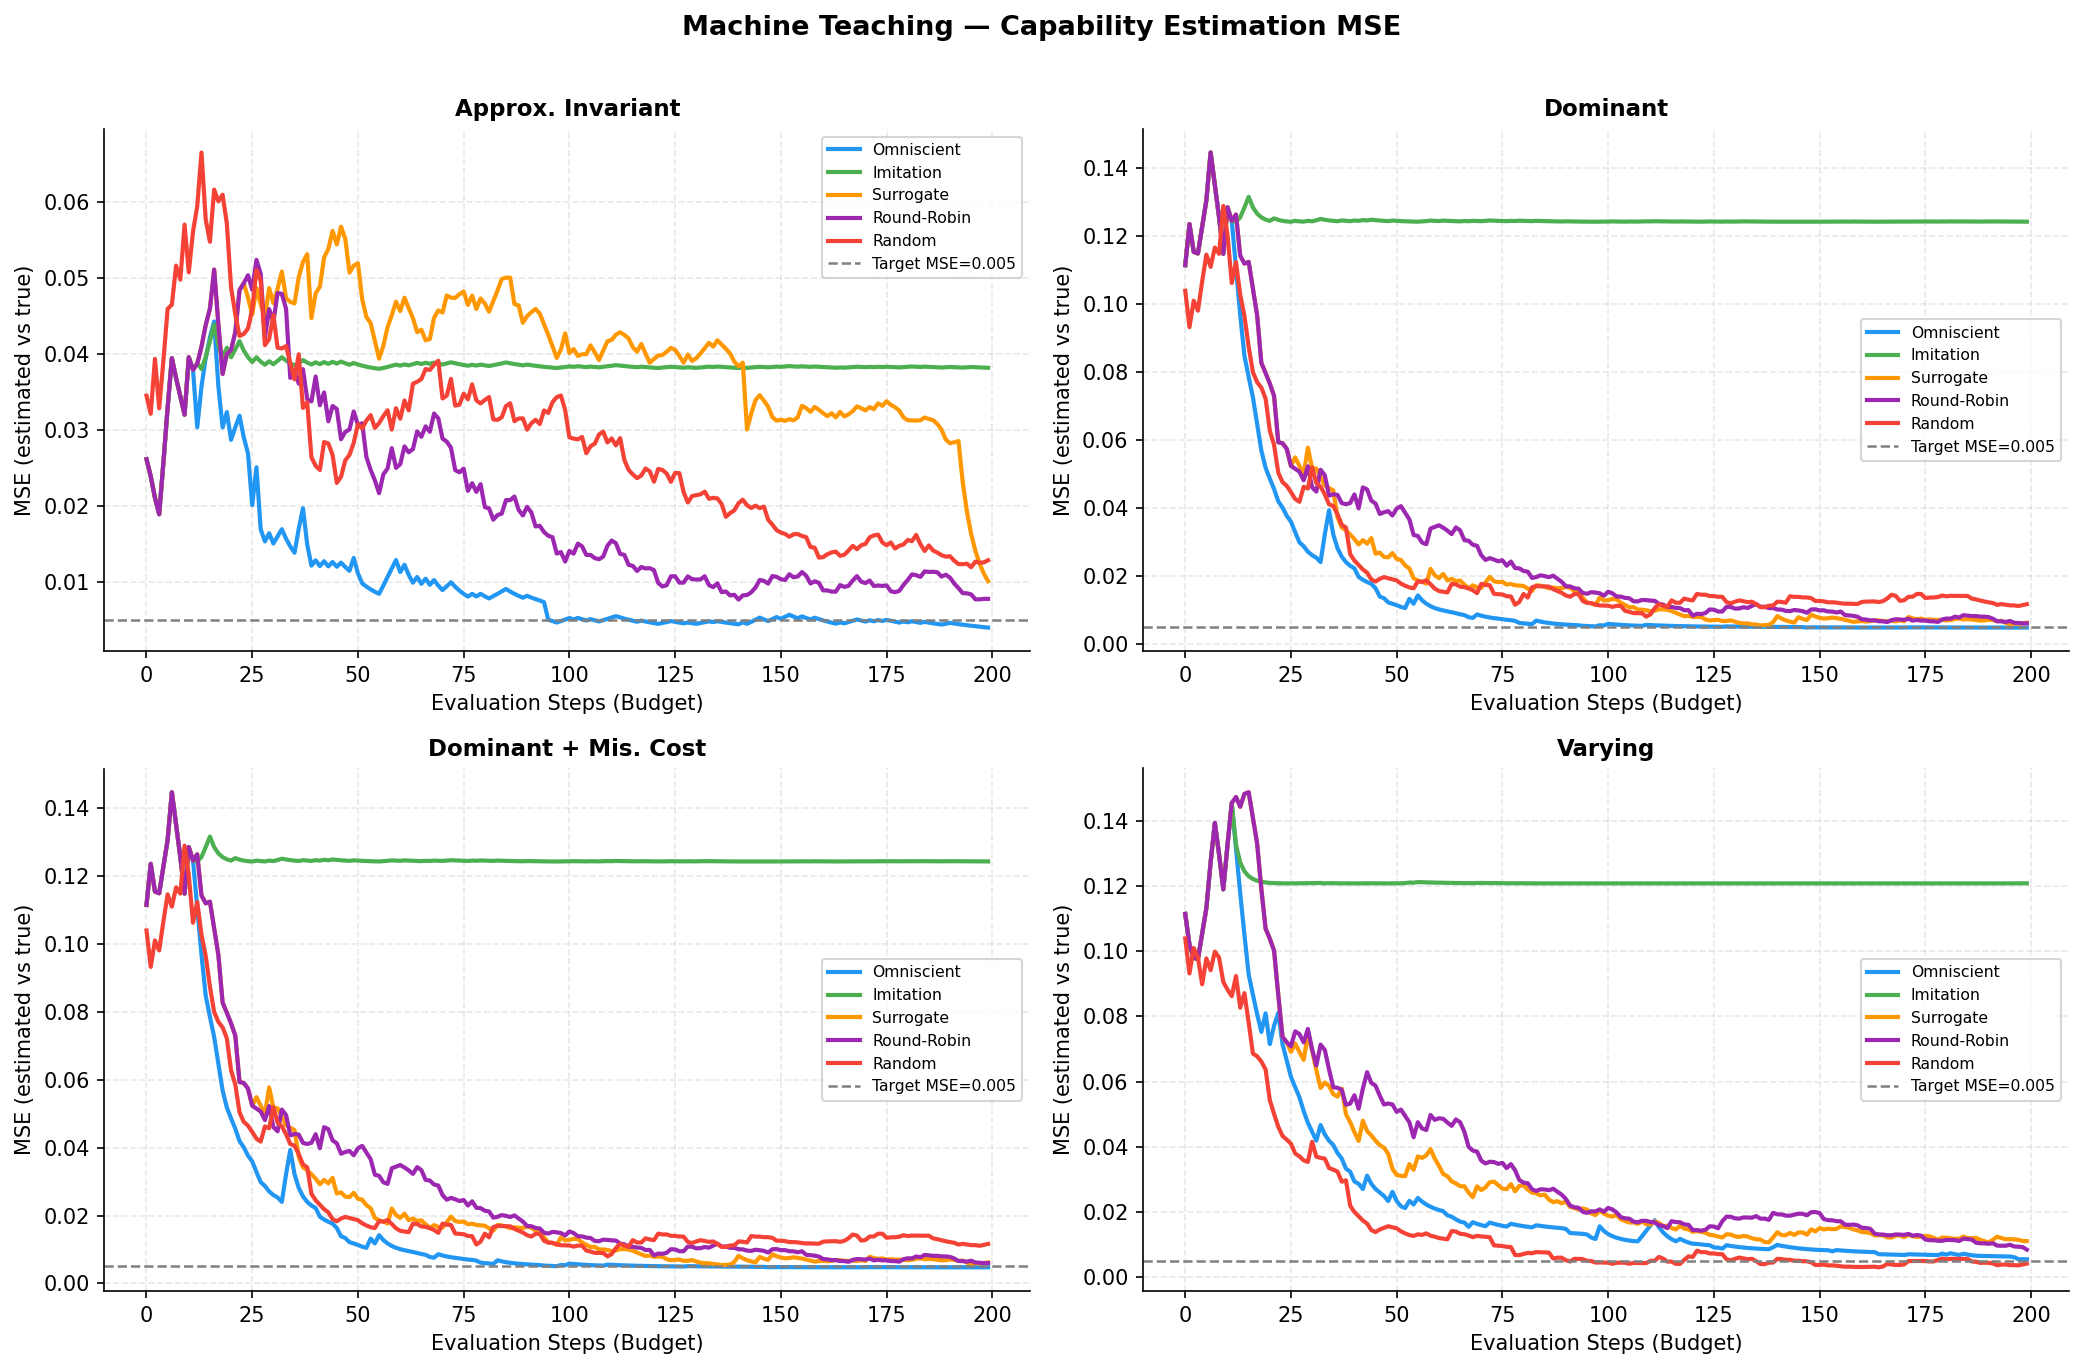
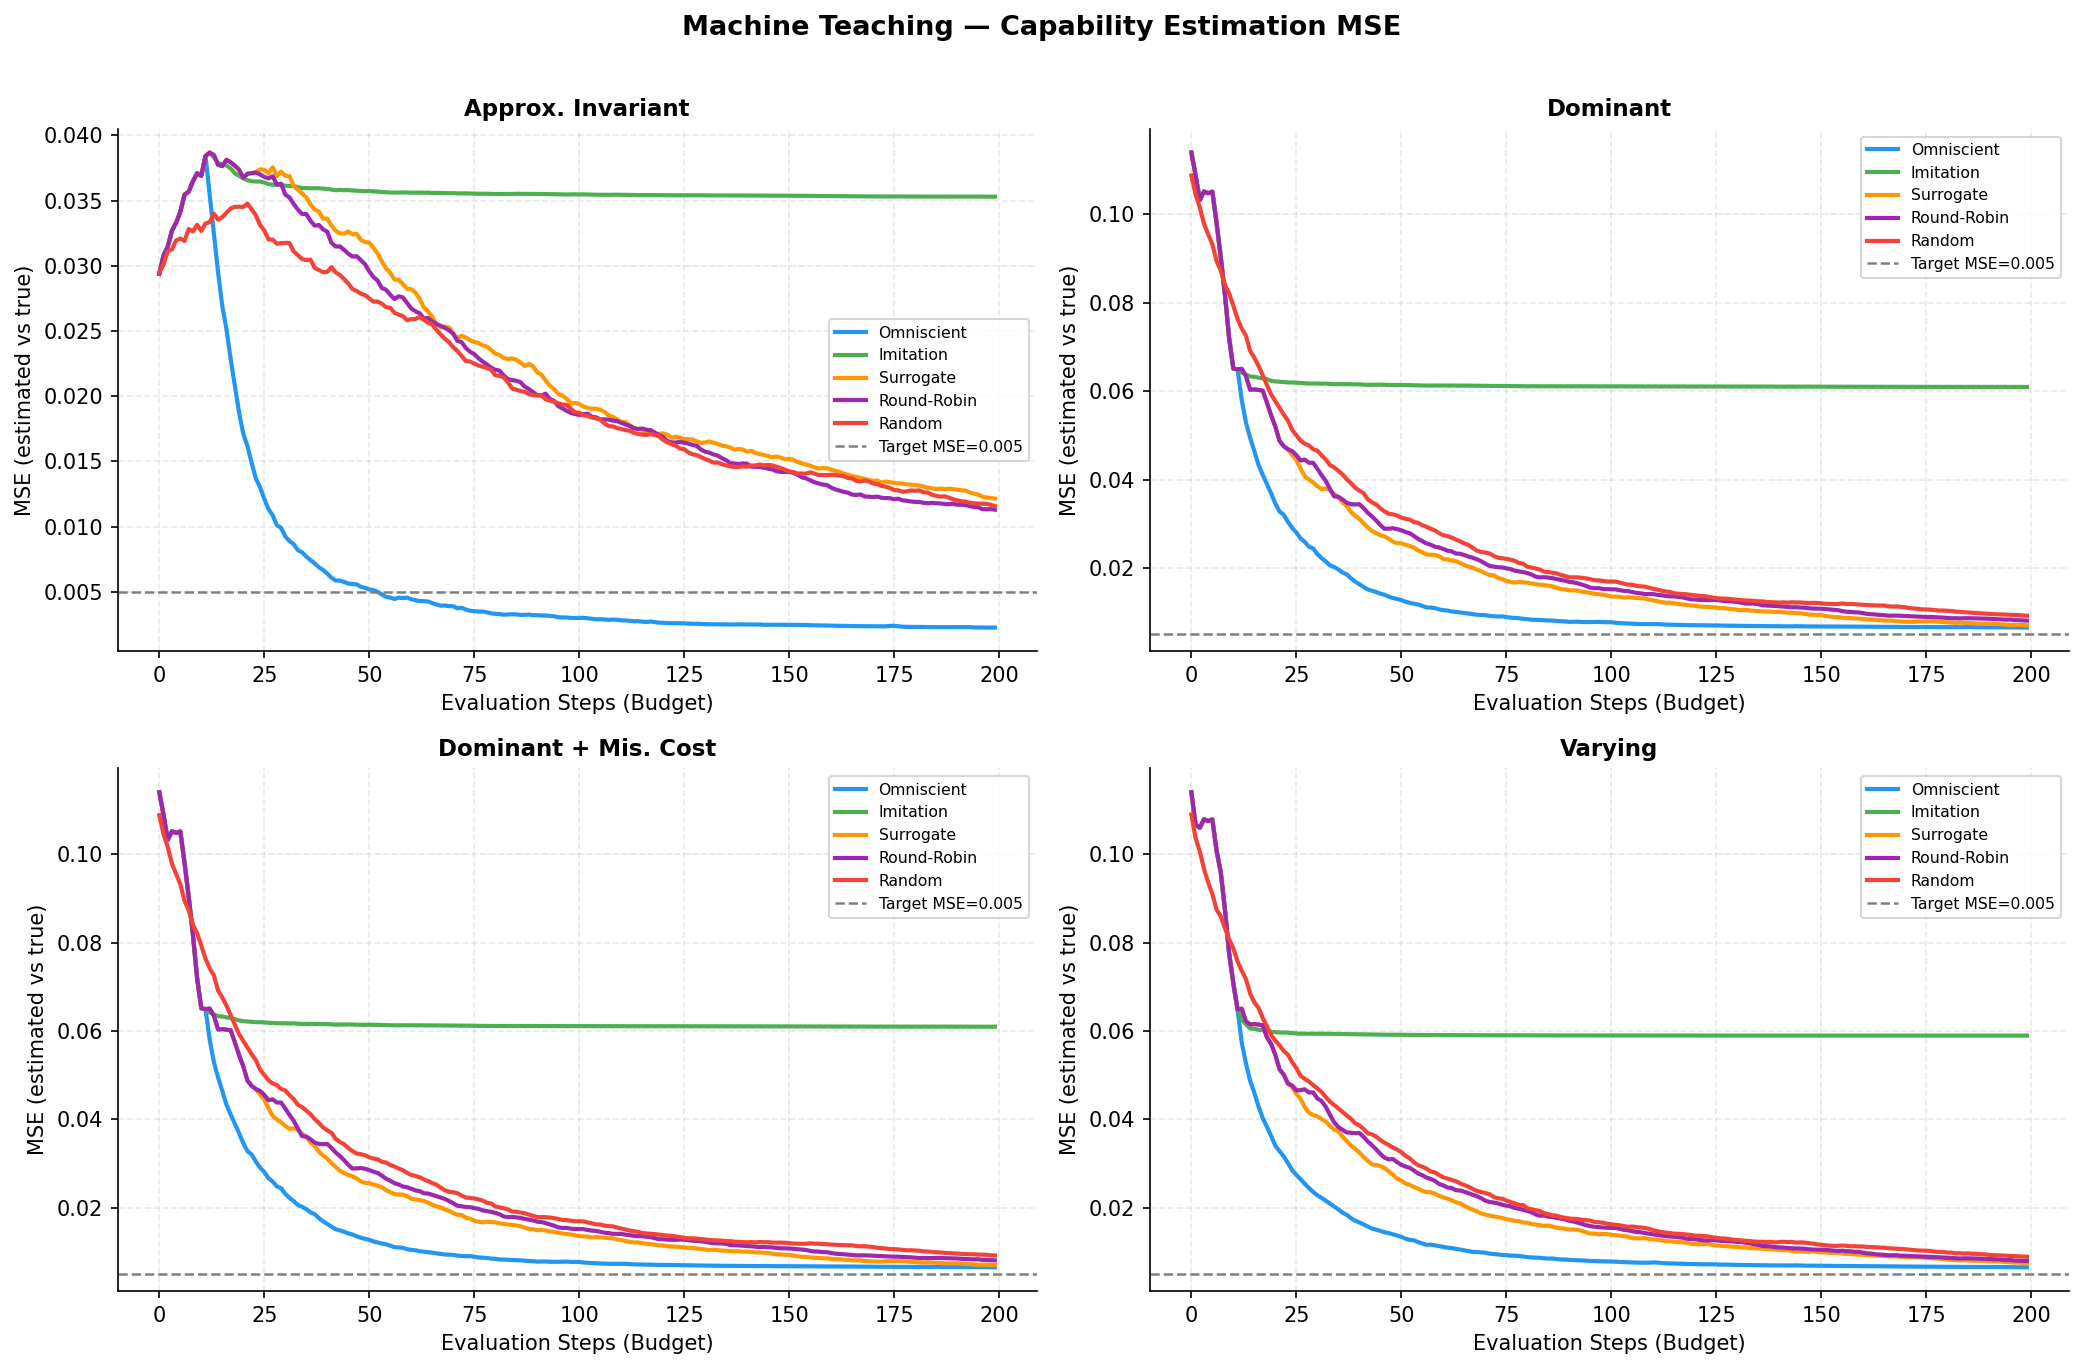
Refactor experiments to average results over 100 runs for baseline and teaching scenarios

diff --git a/run_experiments.py b/run_experiments.py
@@ -156,11 +156,8 @@ def _save(fig, path):
 def run_baseline_experiments() -> dict:
     """Run all baseline orchestrators on all scenarios."""
     print("\n" + "=" * 70)
-    print("PART 1 — Baseline Orchestrators")
+    print("PART 1 — Baseline Orchestrators (100 runs averaged)")
     print("=" * 70)
-
-    data_gen = SyntheticDataGenerator(M=M, seed=SEED)
-    tasks = data_gen.generate_task_stream(N_TASKS)
 
     all_results = {}
     for scenario_name, agent_factory in SCENARIOS.items():
@@ -168,9 +165,35 @@ def run_baseline_experiments() -> dict:
         app = compute_appropriateness(agents, M)
         print(f"\n{'─'*60}")
         print(f"Scenario: {scenario_name}  (appropriateness={app:.3f})")
-        results = run_all_baselines(agents, tasks, verbose=True)
-        results["__app__"] = app
-        all_results[scenario_name] = results
+        
+        avg_results = {}
+        for run_idx in range(100):
+            if run_idx > 0 and run_idx % 20 == 0:
+                print(f"Run count: {run_idx}")
+                
+            data_gen = SyntheticDataGenerator(M=M, seed=SEED + run_idx)
+            tasks = data_gen.generate_task_stream(N_TASKS)
+            
+            results = run_all_baselines(agents, tasks, verbose=False)
+            
+            if not avg_results:
+                for k in results:
+                    avg_results[k] = {"overall_accuracy": 0.0}
+            for k, v in results.items():
+                avg_results[k]["overall_accuracy"] += v["overall_accuracy"]
+                
+        for k in avg_results:
+            avg_results[k]["overall_accuracy"] /= 100
+        
+        avg_results["__app__"] = app
+        all_results[scenario_name] = avg_results
+
+    # Console output for averaged
+    for scenario_name, res in all_results.items():
+        print(f"\nAveraged Results for {scenario_name}:")
+        for orch_name, stats in res.items():
+            if orch_name != "__app__":
+                print(f"  {orch_name}: {stats['overall_accuracy']:.3f} accuracy")
 
     return all_results
 
@@ -238,18 +261,33 @@ def plot_baseline_learning_curves(all_results: dict, output_path: str = None,
 
     for ax, scenario_name in zip(axes, scenarios):
         agents = SCENARIOS[scenario_name](M)
+        print(f"  Learning curves: {scenario_name}")
         for cls, kwargs, key in orch_defs:
-            task_copy = [Task(x=t.x.copy(), y=t.y, region=t.region) for t in tasks]
-            orch = cls(agents, M, **kwargs)
-            accs = []
-            for t, task in enumerate(task_copy):
-                aidx = orch.select_agent(task, t)
-                pred = agents[aidx].predict(task)
-                orch.update(aidx, task, pred)
-                if t >= window:
-                    accs.append(np.mean(orch.correctness[-window:]))
+            avg_accs = None
+            for run_idx in range(100):
+                if run_idx > 0 and run_idx % 20 == 0:
+                    print(f"Run count: {run_idx}")
+                    
+                data_gen = SyntheticDataGenerator(M=M, seed=SEED + run_idx)
+                tasks = data_gen.generate_task_stream(N_TASKS)
+                task_copy = [Task(x=t.x.copy(), y=t.y, region=t.region) for t in tasks]
+                orch = cls(agents, M, **kwargs)
+                accs = []
+                for t, task in enumerate(task_copy):
+                    aidx = orch.select_agent(task, t)
+                    pred = agents[aidx].predict(task)
+                    orch.update(aidx, task, pred)
+                    if t >= window:
+                        accs.append(np.mean(orch.correctness[-window:]))
+                
+                if avg_accs is None:
+                    avg_accs = np.array(accs)
+                else:
+                    avg_accs += np.array(accs)
+            
+            avg_accs = avg_accs / 100
             ax.plot(
-                range(window, len(task_copy)), accs,
+                range(window, len(task_copy)), avg_accs,
                 color=BASELINE_COLORS[key],
                 label=BASELINE_LABELS[key],
                 linewidth=2,
@@ -274,7 +312,7 @@ def plot_baseline_learning_curves(all_results: dict, output_path: str = None,
 def run_teaching_experiments() -> dict:
     """Run all teacher variants on all scenarios."""
     print("\n" + "=" * 70)
-    print("PART 2 — Machine Teaching")
+    print("PART 2 — Machine Teaching (100 runs averaged)")
     print(f"Budget: {BUDGET}  |  M={M}  |  Target MSE < {TARGET_MSE}")
     print("=" * 70)
 
@@ -285,12 +323,37 @@ def run_teaching_experiments() -> dict:
         print(f"\n{'─'*60}")
         print(f"Scenario: {scenario_name}  (appropriateness={app:.3f})")
 
-        results = run_teaching_experiment(
-            agents=agents, M=M, budget=BUDGET,
-            teacher_classes=TEACHER_CLASSES, seed=SEED,
-        )
-        all_results[scenario_name] = results
-        print_teaching_results(results, target_mse=TARGET_MSE)
+        avg_results = {}
+        for run_idx in range(100):
+            if run_idx > 0 and run_idx % 20 == 0:
+                print(f"Run count: {run_idx}")
+                
+            results = run_teaching_experiment(
+                agents=agents, M=M, budget=BUDGET,
+                teacher_classes=TEACHER_CLASSES, seed=SEED + run_idx,
+            )
+            
+            if not avg_results:
+                for name, summary in results.items():
+                    avg_results[name] = {
+                        "mse_curve": np.array(summary["mse_curve"]),
+                        "final_mse": summary["final_mse"],
+                        "final_estimates": summary["final_estimates"].copy(),
+                        "true_caps": summary["true_caps"],
+                    }
+            else:
+                for name, summary in results.items():
+                    avg_results[name]["mse_curve"] += np.array(summary["mse_curve"])
+                    avg_results[name]["final_mse"] += summary["final_mse"]
+                    avg_results[name]["final_estimates"] += summary["final_estimates"]
+                    
+        for name in avg_results:
+            avg_results[name]["mse_curve"] = (avg_results[name]["mse_curve"] / 100).tolist()
+            avg_results[name]["final_mse"] /= 100
+            avg_results[name]["final_estimates"] /= 100
+            
+        all_results[scenario_name] = avg_results
+        print_teaching_results(avg_results, target_mse=TARGET_MSE)
 
     return all_results
 
@@ -532,60 +595,67 @@ def evaluate_downstream_orchestration(teaching_results: dict, n_tasks: int = 500
     Compares ALL baselines + all teachers in one figure.
     """
     print("\n" + "=" * 70)
-    print("PART 3 — Downstream Orchestration Accuracy (Varying scenario)")
+    print("PART 3 — Downstream Orchestration Accuracy (Varying scenario, 100 runs averaged)")
     print("=" * 70)
 
     agents = create_agents_varying(M)
-    np.random.seed(SEED)
-    gen = SyntheticDataGenerator(M=M, seed=SEED + 1)
-    tasks = gen.generate_task_stream(n_tasks)
-
     scenario = "Varying"
     results   = teaching_results[scenario]
     teacher_names = [cls.__name__ for cls, _ in TEACHER_CLASSES]
 
-    downstream_teach = {}
-    for tname in teacher_names:
-        estimated = results[tname]["final_estimates"]
-        est_agents = [
-            Agent(name=agents[k].name,
-                  capabilities=estimated[k],
-                  costs=agents[k].costs)
-            for k in range(len(agents))
-        ]
-        orch = PaperOrchestrator(est_agents, M)
-        for t, task in enumerate(tasks):
-            aidx = orch.select_agent(task, t)
-            pred = agents[aidx].predict(task)
-            orch.update(aidx, task, pred)
-        downstream_teach[tname] = orch.get_performance_stats()["overall_accuracy"]
-
-    # Baselines on same task stream
-    baseline_accs = {}
-    for cls, kwargs, key in [
+    downstream_teach_avg = {tname: 0.0 for tname in teacher_names}
+    
+    baseline_defs = [
         (RandomOrchestrator,  {}, "RandomOrchestrator"),
         (GreedyOrchestrator,  {}, "GreedyOrchestrator"),
         (UCB1Orchestrator,    {"c": 1.0}, "UCB1Orchestrator"),
         (PaperOrchestrator,   {}, "PaperOrchestrator"),
         (OracleOrchestrator,  {}, "OracleOrchestrator"),
-    ]:
-        task_copy = [Task(x=t.x.copy(), y=t.y, region=t.region) for t in tasks]
-        orch = cls(agents, M, **kwargs)
-        for t, task in enumerate(task_copy):
-            aidx = orch.select_agent(task, t)
-            pred = agents[aidx].predict(task)
-            orch.update(aidx, task, pred)
-        baseline_accs[key] = orch.get_performance_stats()["overall_accuracy"]
+    ]
+    baseline_accs_avg = {key: 0.0 for _, _, key in baseline_defs}
 
-    # Oracle from true capabilities
+    for run_idx in range(100):
+        if run_idx > 0 and run_idx % 20 == 0:
+            print(f"Run count: {run_idx}")
+            
+        gen = SyntheticDataGenerator(M=M, seed=SEED + run_idx + 1000)
+        tasks = gen.generate_task_stream(n_tasks)
+
+        for tname in teacher_names:
+            estimated = results[tname]["final_estimates"]
+            est_agents = [
+                Agent(name=agents[k].name,
+                      capabilities=estimated[k],
+                      costs=agents[k].costs)
+                for k in range(len(agents))
+            ]
+            orch = PaperOrchestrator(est_agents, M)
+            for t, task in enumerate(tasks):
+                aidx = orch.select_agent(task, t)
+                pred = agents[aidx].predict(task)
+                orch.update(aidx, task, pred)
+            downstream_teach_avg[tname] += orch.get_performance_stats()["overall_accuracy"]
+
+        for cls, kwargs, key in baseline_defs:
+            task_copy = [Task(x=t.x.copy(), y=t.y, region=t.region) for t in tasks]
+            orch = cls(agents, M, **kwargs)
+            for t, task in enumerate(task_copy):
+                aidx = orch.select_agent(task, t)
+                pred = agents[aidx].predict(task)
+                orch.update(aidx, task, pred)
+            baseline_accs_avg[key] += orch.get_performance_stats()["overall_accuracy"]
+
+    for tname in teacher_names: downstream_teach_avg[tname] /= 100
+    for key in baseline_accs_avg: baseline_accs_avg[key] /= 100
+
     print(f"\n{'Method':<32} {'Accuracy':>10}")
     print("-" * 45)
-    for k, v in baseline_accs.items():
+    for k, v in baseline_accs_avg.items():
         print(f"  [Baseline] {BASELINE_LABELS[k]:<22} {v:.3f}")
-    for k, v in downstream_teach.items():
+    for k, v in downstream_teach_avg.items():
         print(f"  [Teaching] {TEACHER_LABELS[k]:<22} {v:.3f}")
 
-    return baseline_accs, downstream_teach
+    return baseline_accs_avg, downstream_teach_avg
 
 
 def plot_unified_accuracy(baseline_accs: dict, downstream_teach: dict,
@@ -664,7 +734,7 @@ def run_prior_experiments(scenario_name: str = "Varying") -> dict:
     teacher types and return MSE curves + final MSEs.
     """
     print("\n" + "=" * 70)
-    print(f"PART 4 — Prior Sensitivity Analysis  (scenario: {scenario_name})")
+    print(f"PART 4 — Prior Sensitivity Analysis  (scenario: {scenario_name}, 100 runs averaged)")
     print("=" * 70)
 
     agents = SCENARIOS[scenario_name](M)
@@ -672,13 +742,38 @@ def run_prior_experiments(scenario_name: str = "Varying") -> dict:
 
     for prior in ALL_PRIORS:
         print(f"\n  Prior: {prior.name}")
-        results = run_teaching_experiment(
-            agents=agents, M=M, budget=BUDGET,
-            teacher_classes=TEACHER_CLASSES, seed=SEED,
-            prior=prior,
-        )
-        prior_results[prior.name] = results
-        print_teaching_results(results, target_mse=TARGET_MSE)
+        avg_results = {}
+        for run_idx in range(100):
+            if run_idx > 0 and run_idx % 20 == 0:
+                print(f"Run count: {run_idx}")
+                
+            results = run_teaching_experiment(
+                agents=agents, M=M, budget=BUDGET,
+                teacher_classes=TEACHER_CLASSES, seed=SEED + run_idx,
+                prior=prior,
+            )
+            
+            if not avg_results:
+                for name, summary in results.items():
+                    avg_results[name] = {
+                        "mse_curve": np.array(summary["mse_curve"]),
+                        "final_mse": summary["final_mse"],
+                        "final_estimates": summary["final_estimates"].copy(),
+                        "true_caps": summary["true_caps"],
+                    }
+            else:
+                for name, summary in results.items():
+                    avg_results[name]["mse_curve"] += np.array(summary["mse_curve"])
+                    avg_results[name]["final_mse"] += summary["final_mse"]
+                    avg_results[name]["final_estimates"] += summary["final_estimates"]
+                    
+        for name in avg_results:
+            avg_results[name]["mse_curve"] = (avg_results[name]["mse_curve"] / 100).tolist()
+            avg_results[name]["final_mse"] /= 100
+            avg_results[name]["final_estimates"] /= 100
+            
+        prior_results[prior.name] = avg_results
+        print_teaching_results(avg_results, target_mse=TARGET_MSE)
 
     return prior_results
 
